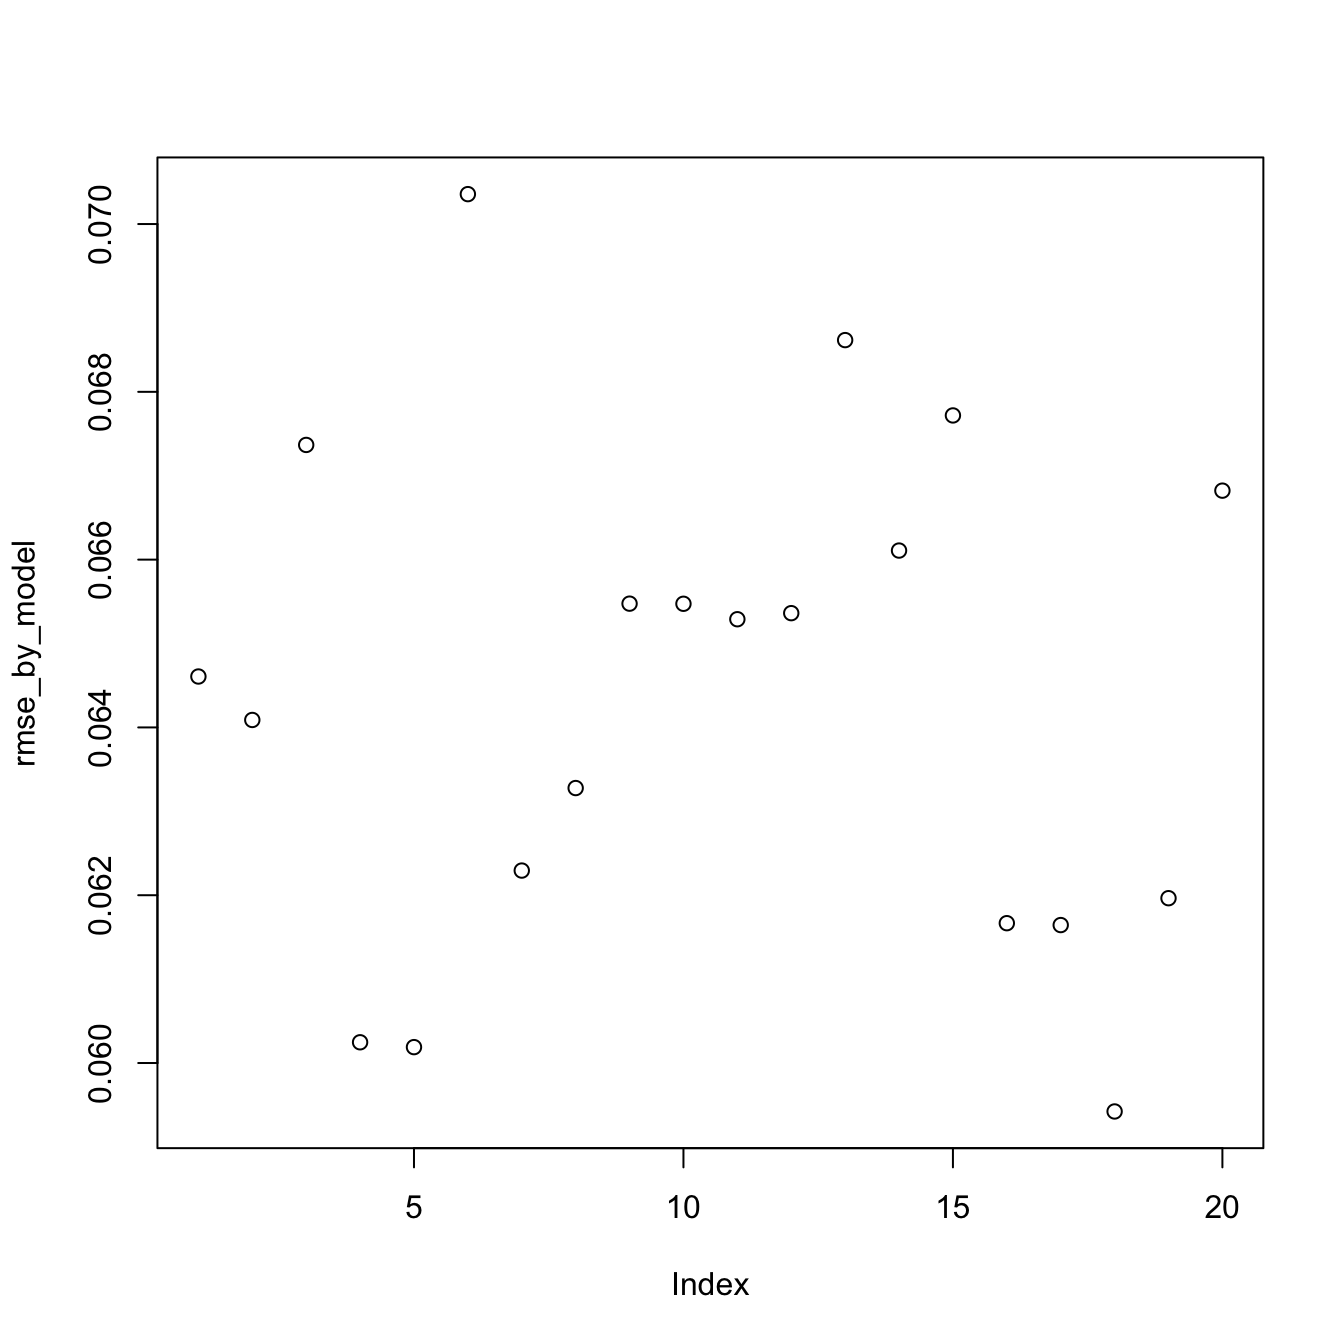
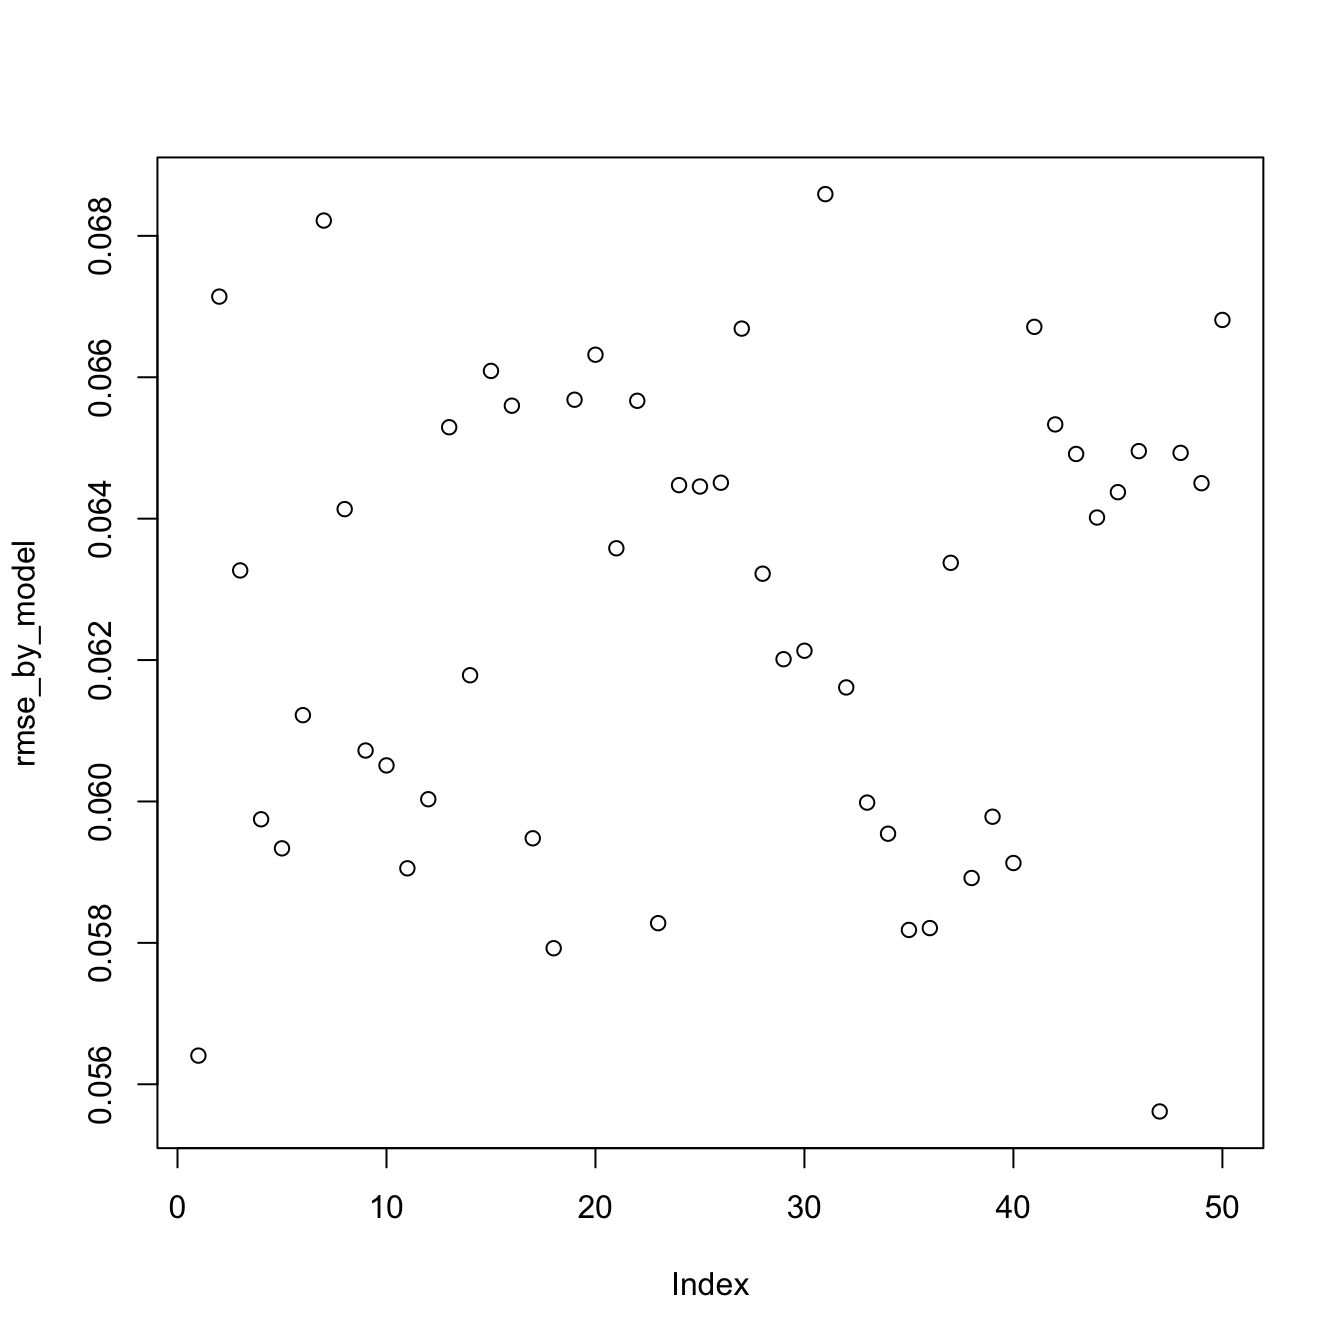
Deploy from Github Actions build 82964604 [ci skip]
Build URL: https://github.com/lrnv/cort/actions/runs/82964604
Commit: a98c5fb06a207336459200c583d5173e26f84c36

diff --git a/articles/vignette04_bootstrap_varying_m.html b/articles/vignette04_bootstrap_varying_m.html
@@ -111,9 +111,9 @@
 <span class="no">df</span> <span class="kw">&lt;-</span> <span class="fu"><a href="https://rdrr.io/r/base/apply.html">apply</a></span>(<span class="no">LifeCycleSavings</span>,<span class="fl">2</span>,<span class="no">rank</span>)/(<span class="fu"><a href="https://rdrr.io/r/base/nrow.html">nrow</a></span>(<span class="no">LifeCycleSavings</span>)+<span class="fl">1</span>)
 <span class="no">d</span> <span class="kw">=</span> <span class="fu"><a href="https://rdrr.io/r/base/nrow.html">ncol</a></span>(<span class="no">df</span>)
 <span class="no">n</span> <span class="kw">=</span> <span class="fu"><a href="https://rdrr.io/r/base/nrow.html">nrow</a></span>(<span class="no">df</span>)
-<span class="no">nb_replicates</span> <span class="kw">=</span> <span class="fl">5</span> <span class="co"># number of replication of the resampling.</span>
+<span class="no">nb_replicates</span> <span class="kw">=</span> <span class="fl">20</span> <span class="co"># number of replication of the resampling.</span>
 <span class="no">nb_fold</span> <span class="kw">=</span> <span class="fl">5</span> <span class="co"># "k" value for the k-fold resampling method.</span>
-<span class="no">nb_cop</span> <span class="kw">=</span> <span class="fl">20</span> <span class="co"># the number of m-randomized checkerboard copulas we will test.</span>
+<span class="no">nb_cop</span> <span class="kw">=</span> <span class="fl">50</span> <span class="co"># the number of m-randomized checkerboard copulas we will test.</span>
 <span class="fu"><a href="https://rdrr.io/r/graphics/pairs.html">pairs</a></span>(<span class="no">df</span>,<span class="kw">lower.panel</span> <span class="kw">=</span> <span class="kw">NULL</span>)</pre></body></html></div>
 <p><img src="vignette04_bootstrap_varying_m_files/figure-html/getting%20data%20and%20parameters-1.png" width="672"></p>
 </div>
@@ -192,26 +192,56 @@
 <p>Each point on the graph correspond to the rmse of a model. We recall the values of <span class="math inline">\(m\)</span> used by those models :</p>
 <div class="sourceCode" id="cb5"><html><body><pre class="r"><span class="no">rand_m</span>
 <span class="co">#&gt;       [,1] [,2] [,3] [,4] [,5]</span>
-<span class="co">#&gt;  [1,]   10    8   40   20   40</span>
-<span class="co">#&gt;  [2,]    2   40    4    2   10</span>
-<span class="co">#&gt;  [3,]    4   40   40    5    5</span>
-<span class="co">#&gt;  [4,]    4    2    8    4   10</span>
-<span class="co">#&gt;  [5,]   10    5    4    8    5</span>
-<span class="co">#&gt;  [6,]    5   40   20   20    2</span>
-<span class="co">#&gt;  [7,]   40    8   40   10    8</span>
-<span class="co">#&gt;  [8,]   20   10    5    5    2</span>
-<span class="co">#&gt;  [9,]    2    4   10    2    5</span>
-<span class="co">#&gt; [10,]    4   40    8    2    5</span>
-<span class="co">#&gt; [11,]    2   40   40   20   10</span>
-<span class="co">#&gt; [12,]    8    4   10   10    5</span>
-<span class="co">#&gt; [13,]    4   20    8   40    2</span>
-<span class="co">#&gt; [14,]    2   40   20    2    5</span>
-<span class="co">#&gt; [15,]    5   10   40    4   10</span>
-<span class="co">#&gt; [16,]    8    4    4    4    8</span>
-<span class="co">#&gt; [17,]    2   20    2    2   10</span>
-<span class="co">#&gt; [18,]   20   20    2    5   20</span>
-<span class="co">#&gt; [19,]    5    5    5    2    8</span>
-<span class="co">#&gt; [20,]   40    8   10    8    2</span></pre></body></html></div>
+<span class="co">#&gt;  [1,]   10    2    5    8   10</span>
+<span class="co">#&gt;  [2,]    5   40    8    5    4</span>
+<span class="co">#&gt;  [3,]    2    4   20   40    8</span>
+<span class="co">#&gt;  [4,]   20   10    5    5    4</span>
+<span class="co">#&gt;  [5,]    4    2   10   40    8</span>
+<span class="co">#&gt;  [6,]    4   40    4    5   10</span>
+<span class="co">#&gt;  [7,]    5   10   40    8    2</span>
+<span class="co">#&gt;  [8,]   20   20   40   10   10</span>
+<span class="co">#&gt;  [9,]    2   20    2   20   40</span>
+<span class="co">#&gt; [10,]    4    5    4   20    5</span>
+<span class="co">#&gt; [11,]   20    5    2    2    8</span>
+<span class="co">#&gt; [12,]   40    2   20   40   40</span>
+<span class="co">#&gt; [13,]   40    8    8   40    2</span>
+<span class="co">#&gt; [14,]    2    2   40    4    2</span>
+<span class="co">#&gt; [15,]    2   10   10    2    4</span>
+<span class="co">#&gt; [16,]    2    4   20   10    2</span>
+<span class="co">#&gt; [17,]    8    8    4   10   20</span>
+<span class="co">#&gt; [18,]    4    5    2    2   10</span>
+<span class="co">#&gt; [19,]    8   20   20    2   40</span>
+<span class="co">#&gt; [20,]    4   40   40    2    5</span>
+<span class="co">#&gt; [21,]    4    5   40   20    4</span>
+<span class="co">#&gt; [22,]    2   20    8    8   40</span>
+<span class="co">#&gt; [23,]   40    2    2   40   10</span>
+<span class="co">#&gt; [24,]    8    4   40   20   10</span>
+<span class="co">#&gt; [25,]   20   10    8    5   20</span>
+<span class="co">#&gt; [26,]   40   10   40   40   10</span>
+<span class="co">#&gt; [27,]    4    5   40    2    2</span>
+<span class="co">#&gt; [28,]   20    5   10   40    4</span>
+<span class="co">#&gt; [29,]   40   10    2   40    5</span>
+<span class="co">#&gt; [30,]    5    5    4   40    5</span>
+<span class="co">#&gt; [31,]    5   20   40    8   40</span>
+<span class="co">#&gt; [32,]    5   10    5   10   10</span>
+<span class="co">#&gt; [33,]   10   10    2   10    5</span>
+<span class="co">#&gt; [34,]    2   20    2    8    4</span>
+<span class="co">#&gt; [35,]    2    2    8    5   20</span>
+<span class="co">#&gt; [36,]    5    2    8   10   10</span>
+<span class="co">#&gt; [37,]    2    5   10    5   40</span>
+<span class="co">#&gt; [38,]   10    5    4   10   20</span>
+<span class="co">#&gt; [39,]   10    8    4   40   10</span>
+<span class="co">#&gt; [40,]   20   10    2    2    2</span>
+<span class="co">#&gt; [41,]    5    8   40    8   40</span>
+<span class="co">#&gt; [42,]   40   40   40   40   10</span>
+<span class="co">#&gt; [43,]    8    4   40    2    5</span>
+<span class="co">#&gt; [44,]   20   40    8    2    4</span>
+<span class="co">#&gt; [45,]    2    4   20    4    8</span>
+<span class="co">#&gt; [46,]   40   20   40   20   10</span>
+<span class="co">#&gt; [47,]   40    2   20   10    8</span>
+<span class="co">#&gt; [48,]    4    8   20    8   40</span>
+<span class="co">#&gt; [49,]   40   40   20   20   10</span>
+<span class="co">#&gt; [50,]    5   40    4    8    2</span></pre></body></html></div>
 <div class="sourceCode" id="cb6"><html><body><pre class="r"><span class="no">convex_combination</span> <span class="kw">&lt;-</span> <span class="fu"><a href="../reference/ConvexCombCopula-class.html">ConvexCombCopula</a></span>(<span class="fu"><a href="https://rdrr.io/r/base/unlist.html">unlist</a></span>(<span class="no">cops</span>,<span class="kw">recursive</span><span class="kw">=</span><span class="fl">FALSE</span>),<span class="kw">alpha</span> <span class="kw">=</span> <span class="fu"><a href="https://rdrr.io/r/base/rep.html">rep</a></span>(<span class="fl">1</span>/<span class="no">rmse_by_model</span>,<span class="no">nb_replicates</span>*<span class="no">nb_fold</span>))
 <span class="no">simu</span> <span class="kw">=</span> <span class="fu"><a href="../reference/rCopula-methods.html">rCopula</a></span>(<span class="fl">1000</span>,<span class="no">convex_combination</span>)
 <span class="fu"><a href="https://rdrr.io/r/graphics/pairs.html">pairs</a></span>(<span class="no">simu</span>,<span class="kw">lower.panel</span> <span class="kw">=</span> <span class="kw">NULL</span>,<span class="kw">cex</span><span class="kw">=</span><span class="fl">0.5</span>)</pre></body></html></div>

diff --git a/news/index.html b/news/index.html
@@ -140,24 +140,18 @@
 <a href="#cort-0309000" class="anchor"></a>cort 0.3.0.9000<small> Unreleased </small>
 </h1>
 <ul>
-<li>Speed up via Rcpp some core functionalities.</li>
+<li>Removed dependency to magritr.</li>
+<li>70% of core computations have been moved on to Rcpp code for performance.</li>
 <li>Parallel computations are now possible via furrr in CortForest.</li>
-<li>Corrected misspelling in the documentations.</li>
+<li>Improved documentation</li>
+<li>Infrastructure lightening : the Box class was removed, and some unnecessary generics were also removed.</li>
+<li>Solver options and number of bootstrap resamples are now accessible as parameters to the Cort() function.</li>
+<li>Add an option to force the checkerboard grid on trees and inside Cort() and CortForest().</li>
+<li>The forest now weights the trees (can be turned off by an option)</li>
+<li>Fixed bug in p-value computations.</li>
 <li>Fixed bug when there is only one leave in the tree.</li>
 <li>Fixed bug in pairs.Cort : dimensions were switched for leaves but not for points.</li>
-<li>Removed dependency to magritr.</li>
-<li>Cut the runtime of p_values computations by half.</li>
-<li>Better runtime in the loss function in Rcpp.</li>
-<li>Removed Box classes : infrastructure changes that make the package lighter and faster.</li>
-<li>Replace the <code>sample</code> function by a more solid one given by ?sample.</li>
-<li>Removed unnecessary generic</li>
-<li>Solver options and number of bootstrap resamples are now accessible as parameters to the Cort() function.</li>
-<li>Add an option to force the checkerboard grid on trees and inside the forest.</li>
-<li>Add a weighting option for the forest.</li>
-<li>Corrected a BIG mistake on the forest p-values… Results are much better now.</li>
-<li>Optimized the norm-matrix computation in cpp</li>
-<li>Fitting weights of forest only once – major speedup but resulting graphs might be less cool.</li>
-<li>Simplifying forest code.</li>
+<li>Fixed bug in pCopula values for cbCopula objects.</li>
 </ul>
 </div>
     <div id="cort-030" class="section level1">

diff --git a/reference/dCopula-methods.html b/reference/dCopula-methods.html
@@ -183,7 +183,7 @@
 
     <h2 class="hasAnchor" id="examples"><a class="anchor" href="#examples"></a>Examples</h2>
     <pre class="examples"><div class='input'><span class='no'>cop</span> <span class='kw'>&lt;-</span> <span class='fu'><a href='cbCopula-Class.html'>cbCopula</a></span>(<span class='no'>LifeCycleSavings</span>,<span class='kw'>m</span> <span class='kw'>=</span> <span class='fl'>5</span>)
-<span class='fu'>dCopula</span>(<span class='fu'><a href='https://rdrr.io/r/base/rep.html'>rep</a></span>(<span class='fl'>0</span>,<span class='fl'>5</span>),<span class='no'>cop</span>)</div><div class='output co'>#&gt; [1] 0.02</div><div class='input'><span class='fu'>dCopula</span>(<span class='fu'><a href='https://rdrr.io/r/base/rep.html'>rep</a></span>(<span class='fl'>0.5</span>,<span class='fl'>5</span>),<span class='no'>cop</span>)</div><div class='output co'>#&gt; [1] 0.02</div><div class='input'><span class='fu'>dCopula</span>(<span class='fu'><a href='https://rdrr.io/r/base/rep.html'>rep</a></span>(<span class='fl'>1</span>,<span class='fl'>5</span>),<span class='no'>cop</span>)</div><div class='output co'>#&gt; [1] 0.02</div><div class='input'>
+<span class='fu'>dCopula</span>(<span class='fu'><a href='https://rdrr.io/r/base/rep.html'>rep</a></span>(<span class='fl'>0</span>,<span class='fl'>5</span>),<span class='no'>cop</span>)</div><div class='output co'>#&gt; [1] 0</div><div class='input'><span class='fu'>dCopula</span>(<span class='fu'><a href='https://rdrr.io/r/base/rep.html'>rep</a></span>(<span class='fl'>0.5</span>,<span class='fl'>5</span>),<span class='no'>cop</span>)</div><div class='output co'>#&gt; [1] 0</div><div class='input'><span class='fu'>dCopula</span>(<span class='fu'><a href='https://rdrr.io/r/base/rep.html'>rep</a></span>(<span class='fl'>1</span>,<span class='fl'>5</span>),<span class='no'>cop</span>)</div><div class='output co'>#&gt; [1] 0</div><div class='input'>
 </div></pre>
   </div>
   <div class="col-md-3 hidden-xs hidden-sm" id="pkgdown-sidebar">

diff --git a/reference/CortForest-Class.html b/reference/CortForest-Class.html
@@ -187,11 +187,11 @@
     </tr>
     <tr>
       <th>verbose_lvl</th>
-      <td><p>verbosity level : can be 0 (none) or an integer. bigger the integer bigger the output level.</p></td>
+      <td><p>verbosity level : can be 0 (default) or an integer. bigger the integer bigger the output level.</p></td>
     </tr>
     <tr>
       <th>force_grid</th>
-      <td><p>boolean. set to TRUE to force breakpoint to be on the n-checkerboard grid in every tree.</p></td>
+      <td><p>boolean (default: FALSE). set to TRUE to force breakpoint to be on the n-checkerboard grid in every tree.</p></td>
     </tr>
     <tr>
       <th>oob_weighting</th>
@@ -221,11 +221,11 @@
 #&gt; 
 #&gt; Minimization using NLopt version 2.4.2 
 #&gt; 
-#&gt; NLopt solver status: 4 ( NLOPT_XTOL_REACHED: Optimization stopped because 
-#&gt; xtol_rel or xtol_abs (above) was reached. )
+#&gt; NLopt solver status: 3 ( NLOPT_FTOL_REACHED: Optimization stopped because 
+#&gt; ftol_rel or ftol_abs (above) was reached. )
 #&gt; 
-#&gt; Number of Iterations....: 24 
-#&gt; Termination conditions:  stopval: -Inf	xtol_rel: 1e-15	maxeval: 1e+06	ftol_rel: 0	ftol_abs: 0 
+#&gt; Number of Iterations....: 5 
+#&gt; Termination conditions:  stopval: -Inf	xtol_rel: 1e-10	maxeval: 1e+06	ftol_rel: 1e-10	ftol_abs: 1e-10 
 #&gt; Number of inequality constraints:  0 
 #&gt; Number of equality constraints:    1 
 #&gt; Optimal value of objective function:  -1.60993044107934 
